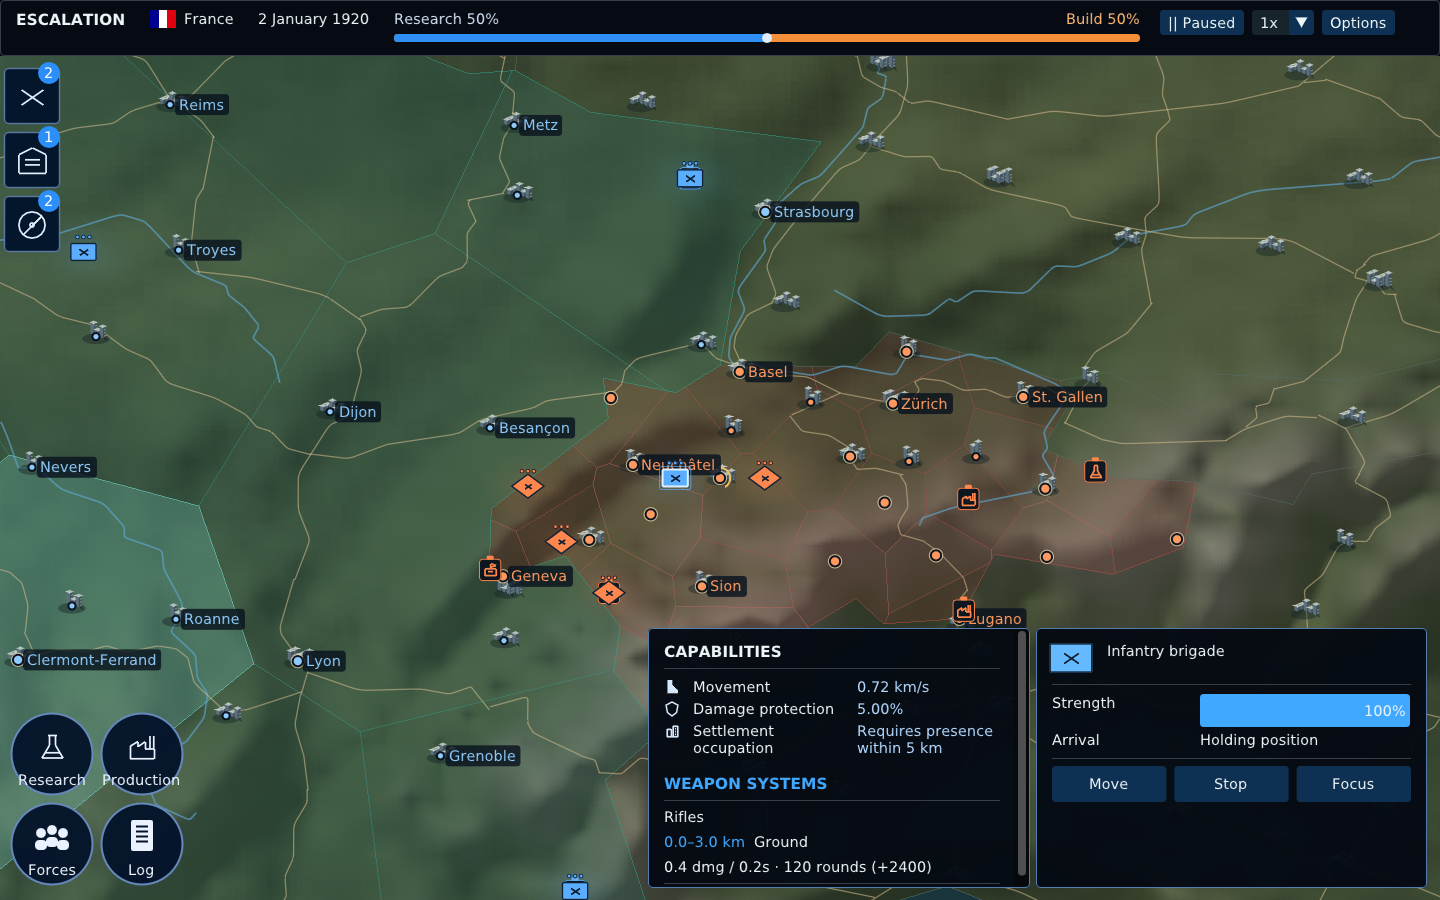
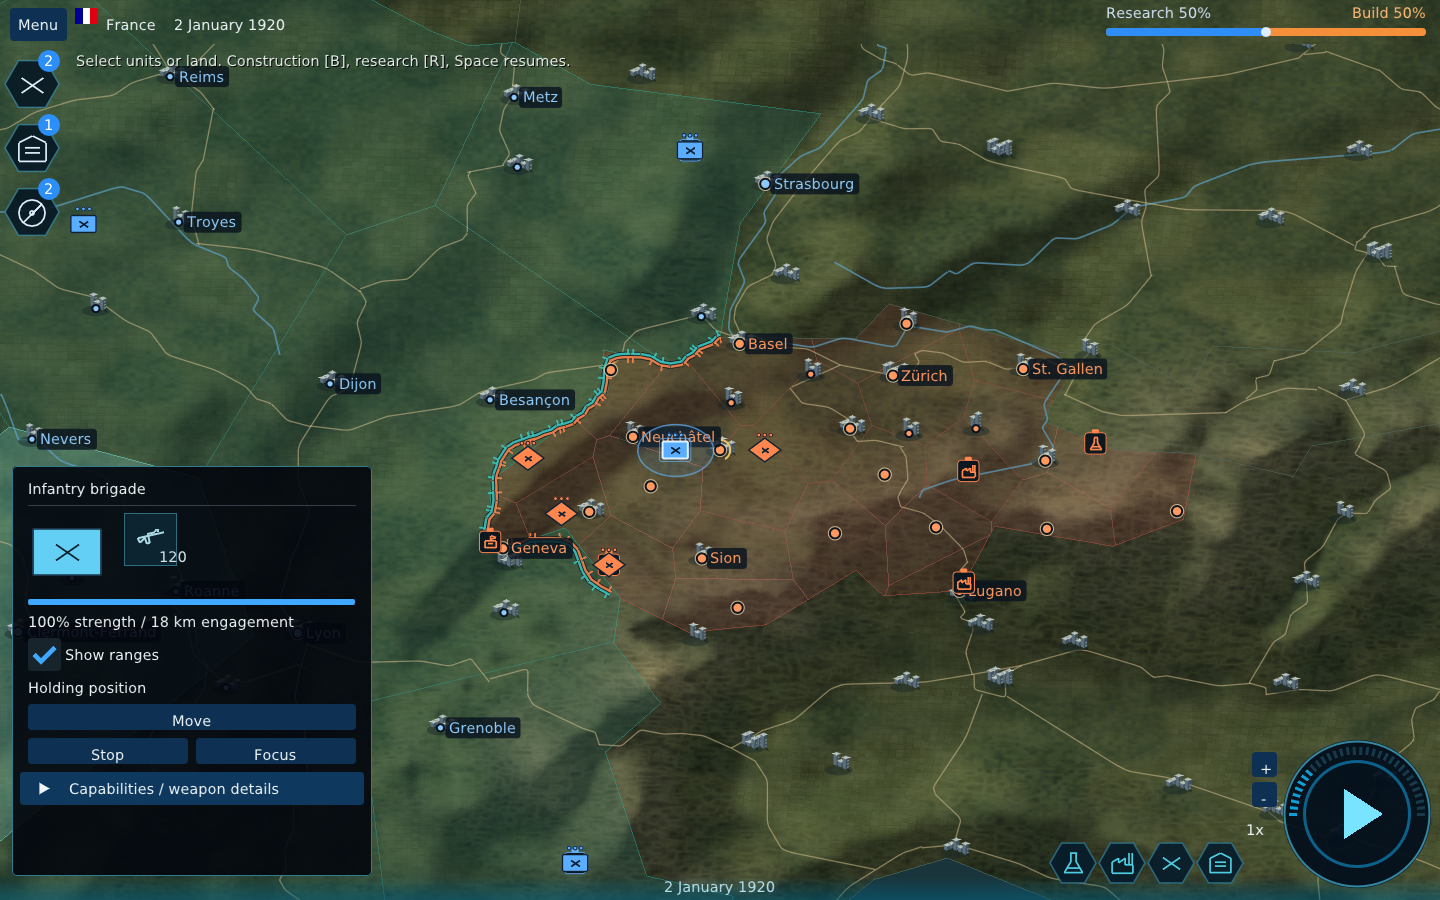
docs: refresh 0.8.0 captures and clarify strike consequences

diff --git a/README.md b/README.md
@@ -2,7 +2,7 @@
 
 A native C++17 / OpenGL 3.3 strategy prototype about building a nation before committing it to war. Inspired by the conventional/nuclear escalation of **ICBM: Escalation** and the map-led national management of **State of Command**, with original code and presentation.
 
-Version 0.7.0 adds naval warfare and richer geographic presentation to **readable command, deliberate combat pacing and manufacture-before-placement**. Units use shared kilometre-based capabilities; research and construction are controlled by a weight slider and completion estimates. Unit and building inspection uses paired bottom-right capability and selection boxes. Completed units and buildings appear in the permanent icon rail; circular controls open dedicated pages. Major roads, decorative rivers, proportional typography and original vector icons are bundled offline.
+Version 0.8.0 focuses on **readable command, actual missile flight and a stronger strategic foundation**. The reference HUD uses compact bottom-left inspection, a bottom-right play/speed dial, hexagonal page controls and ready inventory icons. Ground and naval formations use independent weapon channels with ranges, ammunition and target eligibility. Research and construction share a graphical weight slider. Ownership frontlines, complete queued paths, cities, major roads, decorative rivers and textured terrain are bundled offline.
 
 ![Native map and national command](docs/map.png)
 
@@ -89,7 +89,7 @@ A compiler-only validation path is also provided (see the validation record for 
 python3 tools/verify.py
 ```
 
-For Linux render smoke tests without a desktop, install `libegl1 libgl1-mesa-dri`, build with `-DESCALATION_NULL_PLATFORM=ON`, and run `ctest`. This creates an actual EGL OpenGL context, renders seventeen UI/projection states and checks GL errors. The normal desktop build can also run `./build/escalation --smoke build/smoke`. PPM screenshots are generated locally, not published as releases.
+For Linux render smoke tests without a desktop, install `libegl1 libgl1-mesa-dri`, build with `-DESCALATION_NULL_PLATFORM=ON`, and run `ctest`. This creates an actual EGL OpenGL context, renders twenty UI/projection states and checks GL errors. The normal desktop build can also run `./build/escalation --smoke build/smoke`. PPM screenshots are generated locally, not published as releases.
 
 ## First campaign
 
@@ -168,3 +168,13 @@ The world surface now blends public-domain elevation, latitude, coastal shelves 
 Naval research unlocks shipyards, destroyers, submarines and distinct weapon upgrades. Completed ships deploy beside a friendly operational shipyard and follow ocean routes with queued orders and arrival estimates. Return to shipyard repairs and rearms after 30 uninterrupted seconds nearby while disengaged. Ships do not occupy land objectives.
 
 Each weapon has its own target types, minimum/maximum range, damage, cooldown, magazine and reserves. Guns, anti-ship missiles, ASW weapons, torpedoes and cruise missiles can serve different targets on one platform. Guided projectiles follow their target; artillery shells retain their aimed impact point. Inspection shows each weapon and matching range circles. Aircraft, carriers, amphibious transports, sonar detection and interception remain future work. See [reference and design decisions](docs/ICBM_NAVAL_MAP.md).
+
+### Command and strike foundation (0.8.0)
+
+The HUD now follows the supplied ICBM: Escalation references: compact bottom-left inspection, a bottom-right play/speed dial and hexagonal page controls, slim ready icons, and research/production queues beside the branching research workspace. Unit models remain NATO counters. Attack orders, launch rejection reasons and placement results appear as brief map notifications.
+
+The frontline follows controlling territory and bends under nearby army pressure, with separate national-colored tracks and facing ticks. Active movement paths show committed waypoints; queued paths use consistent dashes, numbered destinations and total arrival estimates.
+
+Ground groups have larger operational engagement envelopes. Artillery, tactical missiles and researched submarine cruise weapons can strike a ground point. Operational missile sites can launch conventional ballistic strikes; confirmed nuclear launches travel to their target and resolve blast damage instead of instantly ending the campaign. Ammunition, cooldowns, minimum ranges, eligibility and saved in-flight/impact state remain explicit. See [missile behavior and tuning](docs/MISSILE_SYSTEMS.md).
+
+Terrain adds original zoom-filtered woodland, agricultural, desert and mountain surface detail. The supplied AssetLib was inspected as visual reference; commercial game assets without redistribution terms were not bundled. These are geographic elevation plus procedural textures, not satellite imagery. Full reference-game systems such as detection, interception, automatic nuclear retaliation and fallout remain future work.

diff --git a/docs/VALIDATION.md b/docs/VALIDATION.md
@@ -2,6 +2,8 @@
 
 Validated 14 October 2026 on Linux x86-64, GCC 13, CMake 4.4.4, GLFW 3.4, Dear ImGui 1.91.8 and Mesa software OpenGL.
 
+Historical baseline results (not repeated for every subsequent patch):
+
 | Check | Result |
 | --- | --- |
 | Native CMake / CTest | Five suites passed: core, projection, tactical, native input and OpenGL smoke |
@@ -65,3 +67,9 @@ The existing native-input suite passed; native renders verify that the shared pa
 The native client built successfully. Four targeted CTest suites passed: simulation (14,504 checks), tactical combat (95 scenarios), native input (19 integration checks), and OpenGL smoke. New coverage includes independent simultaneous weapon launches, target-specific minimum/maximum ranges, guided versus snapshot impacts, ammunition slots, shipyard placement/manufacture/deployment, ocean detours and queued naval orders, port rearming/repair, and version-7 save restoration with previous technology-tree migration.
 
 Seventeen native states were captured at 1440×900/100% and 1280×720/125%. The new terrain shader compiled and rendered without GL errors; city/population, monument, naval capability and naval research views were inspected. Floating weapon labels were removed, and port-service capability text was shortened after visual review. All documented screenshots were refreshed. No broad sanitizer, packaging or cross-platform sweep was repeated. This pass does not establish full ICBM parity, competitive balance or Windows runtime validation.
+
+## 0.8.0 focused integration
+
+The integrated native build and four targeted suites passed: simulation (14,506 checks), tactical combat (102 scenarios), native input (22 integration checks), and OpenGL smoke. Missile scenarios verify actual delayed flight/impact, minimum/maximum envelopes, explicit point strikes, ammunition consumption, nuclear blast effects and save restoration. Input checks verify the moved HUD anchors, dock click protection and Escape cancellation for target mode. The final HUD-only corrections receive native input and render verification; unchanged simulation is not re-swept.
+
+Native captures include ownership frontlines, queued actual routes, a flying ballistic missile and its impact, at standard 1440×900/100% and compact 1280×720/125%. Frontline, terrain, missile and HUD changes are committed to main individually as functions finish. The uploaded game asset archive is inspected as reference; no unlicensed commercial art is copied. No sanitizer, packaging or Windows runtime sweep is repeated.

diff --git a/docs/ARCHITECTURE.md b/docs/ARCHITECTURE.md
@@ -65,3 +65,9 @@ Save schema 6 persists Unit.deployed. Manufacturing jobs and completed ready uni
 The renderer samples a mipmapped packed surface atlas (relative elevation, illustrative coastal distance, land mask). `tools/prepare_surface.py` derives it from bundled height and country geometry; `data/assets.json` retains provenance. City and landmark geometry is original screen-projected isometric artwork, with detail fading by zoom. City selection uses campaign settlements first, then the global reference gazetteer.
 
 Naval technology IDs append after the stable 112 ground technologies. Ships use ocean routing and coastal shipyard production/deployment rather than land occupation. Weapon profiles drive targeting, separate range rings and inspection; stable weapon slots preserve ammunition through upgrades. Engagement records persist projectile travel and guided targeting. Save version 7 preserves weapon cooldowns, magazines, reserves, port service and in-flight engagements; previous ground saves extend their technology arrays.
+
+## 0.8.0 command and strike integration
+
+The camera covers the whole game surface; HUD hit regions protect the transparent header, left inspector and right controls. Map overlays clip below the header so geographic labels cannot overwrite command text. Point-targeting state belongs to App and cancels through Escape/right click; simulation APIs reject invalid launches without consuming rounds. Brief operation notifications expose validation feedback.
+
+The ownership contour combines signed distances to controlled campaign cells with army pressure, refreshed at 8 Hz and on camera/ownership changes. Planned routes preserve exact movement geometry while queued segments use screen-space dash cadence. Strategic sites create owner/source-indexed engagements with no unit defender index; ballistic height is presentation, while flight timers and area impacts are simulation state. Save version 8 persists impact lifetime and site reloads.

diff --git a/docs/RELEASES.md b/docs/RELEASES.md
@@ -6,7 +6,7 @@ Versions use `X.y.z`:
 - `y` increases for new features or systems, retaining `X` and resetting `z` to zero.
 - `z` increases for corrections to existing behavior, retaining `X.y`.
 
-The current version is **0.7.0**, adding geographic presentation, naval platforms and independent weapon channels. No major change is authorized, and it does not produce automated release packages. Keep `VERSION` and the `project(... VERSION ...)` value in `CMakeLists.txt` identical. Local `build.sh linux`, `build.sh windows`, and `build.sh all` remain available at every version.
+The current version is **0.8.0**, adding continuous ownership frontlines, real ballistic impacts, richer terrain and the reference HUD. No major change is authorized, and it does not produce automated release packages. Keep `VERSION` and the `project(... VERSION ...)` value in `CMakeLists.txt` identical. Local `build.sh linux`, `build.sh windows`, and `build.sh all` remain available at every version.
 
 ## Major release procedure
 

diff --git a/docs/SCREENSHOTS.md b/docs/SCREENSHOTS.md
@@ -1,6 +1,6 @@
 # Native application screenshots
 
-Every image below was regenerated from the native **0.7.0** OpenGL client at **1440×900, 100% UI scale**. A second render at **1280×720, 125% scale** verified the compact layout. These are application captures, not concept mockups.
+Every image below was regenerated from the native **0.8.0** OpenGL client at **1440×900, 100% UI scale**. A second render at **1280×720, 125% scale** verified the compact layout. These are application captures, not concept mockups.
 
 ## Main menu
 
@@ -69,3 +69,15 @@ Every image below was regenerated from the native **0.7.0** OpenGL client at **1
 ## Naval research branches
 
 ![Naval research](naval-research.png)
+
+## Ballistic missile flight
+
+![Conventional ballistic missile](ballistic-flight.png)
+
+## Actual strike impact
+
+![Ballistic impact](ballistic-impact.png)
+
+## Committed and queued unit paths
+
+![Queued movement route and arrival](queued-route.png)
